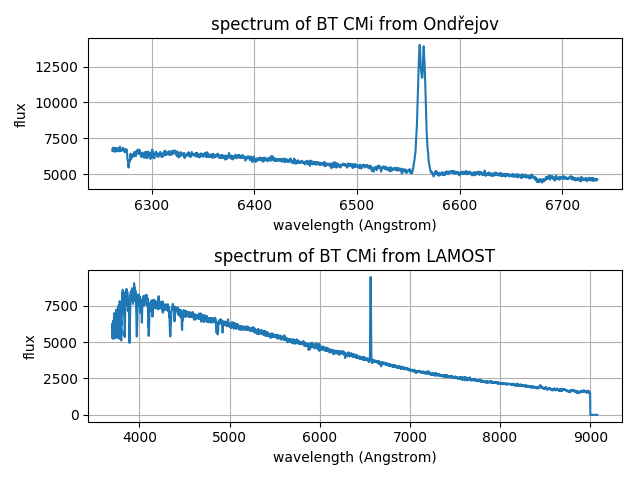
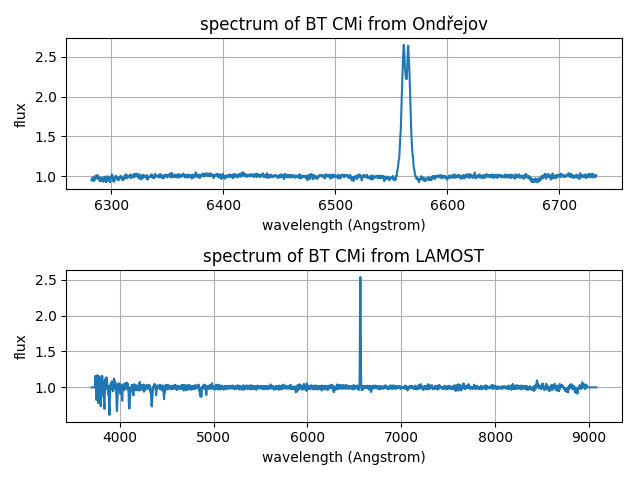
Modify spectra-data.tex

diff --git a/tex/spectral-data.tex b/tex/spectral-data.tex
@@ -54,6 +54,26 @@ Their spectrum approximates the black body spectrum. \cite[cosmos]
 stars.
 \medskip
 
+\sec Spectrum Continuum
+
+Each spectrum is characterized by the continuum and the spectral lines.
+The continuum is generally smoothly varying spectrum of light emitted by
+a star while spectral lines are peaks reaching out from a continuum.
+\cite[continuum]
+
+In order to avoid variations between different observations a contiuum is
+usually normalized to serve as refence point to spectral lines.
+A smooth curve is fit to the continuum and then the spectrum is divided by
+it.
+This sets the continuum everywhere to one and allows to measure spectral
+lines in consistent way.
+
+\medskip \clabel[continuum-normalization]{Continuum Normalization}
+\picw=15cm \cinspic img/continuum-normalization.png
+\caption/f Comparison between raw spectrum and corresponding spectrum with
+normalized continuum.
+\medskip
+
 \sec Spectral Lines
 
 Spectral lines can be used to identify the chemical
@@ -94,17 +114,39 @@ atom's energy levels. On graph these absorption
 features are show below the level of a star's black body
 continuum spectrum.
 
-\secc H-alpha
+\secc Balmer Lines
 
-H-alpha is deep-red visible spectral line. Its wavelength is 6562.8\,\AA.
+The Balmer lines or Balmer series is the name of spectral lines of hydrogen
+atom that result from electron transitions between second energy level
+and higher levels.
+There are four transitions that are in visible wavelength.
+These are named H$\alpha$, H$\beta$, H$\gamma$ and H$\delta$.
+Because hydrogen is most abundant element Balmer lines are a commonly
+observed feature in spectroscopy. \cite[cosmos]
+
+H$\alpha$ is deep-red visible spectral line. Its wavelength is 6562.8\,\AA.
 This spectral line is created whe electron moves between the second and third
 energy level of hydrogen atom.
 
 \medskip \clabel[spectral-lines]{Spectral lines}
 \picw=15cm \cinspic img/spectral-lines.png
 \caption/f Specta of gamma Cas and alpha Lyr with emission and absorption
-line in H-alpha respectively.
+line in H$\alpha$ respectively.
 \medskip
+
+\sec Be Stars
+
+Be stars are a non-supergiant B stars\fnote{Stars from spectral type B are
+hydrogen burning stars which have 2 to 16 times the mass fo the Sun
+and surface temperatures between 10000 and 30000 K. \cite[habets1981]}
+whose spectrum has or had at some time, one or more Balmer lines in emission.
+Althougth this definition is not precise it is sufficient for purpose of this
+work. \cite[porter2003]
+
+It is believed that Be star consists of really fast rotating star
+and star disk which may cause the emissions in Balmer lines.
+Absorptions and emissions in electromagnetic spectrum of Be star can
+periodically vary.
 
 \sec Ondřejov Archive
 
@@ -113,7 +155,7 @@ Center\urlnote{http://voarchive.asu.cas.cz/}.
 It currently contains about 17000 specta \cite[voarchive].
 The data were obtained with Ondřejov Perek 2\,m telescope and coud\`e camera
 with focus 700\,mm.
-The spectrograph's spectral resolving power is about 13000 in H-alpha
+The spectrograph's spectral resolving power is about 13000 in H$\alpha$
 \cite[stelweb].
 
 {\bf Spectral resolving power} of a spectrograph is defined as:

diff --git a/tex/machine-learning.tex b/tex/machine-learning.tex
@@ -51,7 +51,7 @@ discrimination.
 The key is that these layers of features are not designed by humans but
 learned from data. \cite[deep-learning]
 
-\secc Feedforward Neural Networks
+\sec Feedforward Neural Networks
 
 Many applications of deep learning use feedforward neural network
 architectures.
@@ -69,7 +69,7 @@ The input layer has 3 units followed 2 hidden layers with 4 and 3 units.
 Ouput layer contains 2 units.
 \medskip
 
-\secc Convolutional Neural Networks
+\sec Convolutional Networks
 
 Convolutional neural networks are one particular type of deep feedforward
 network that is much easier to train and generalize much better than
